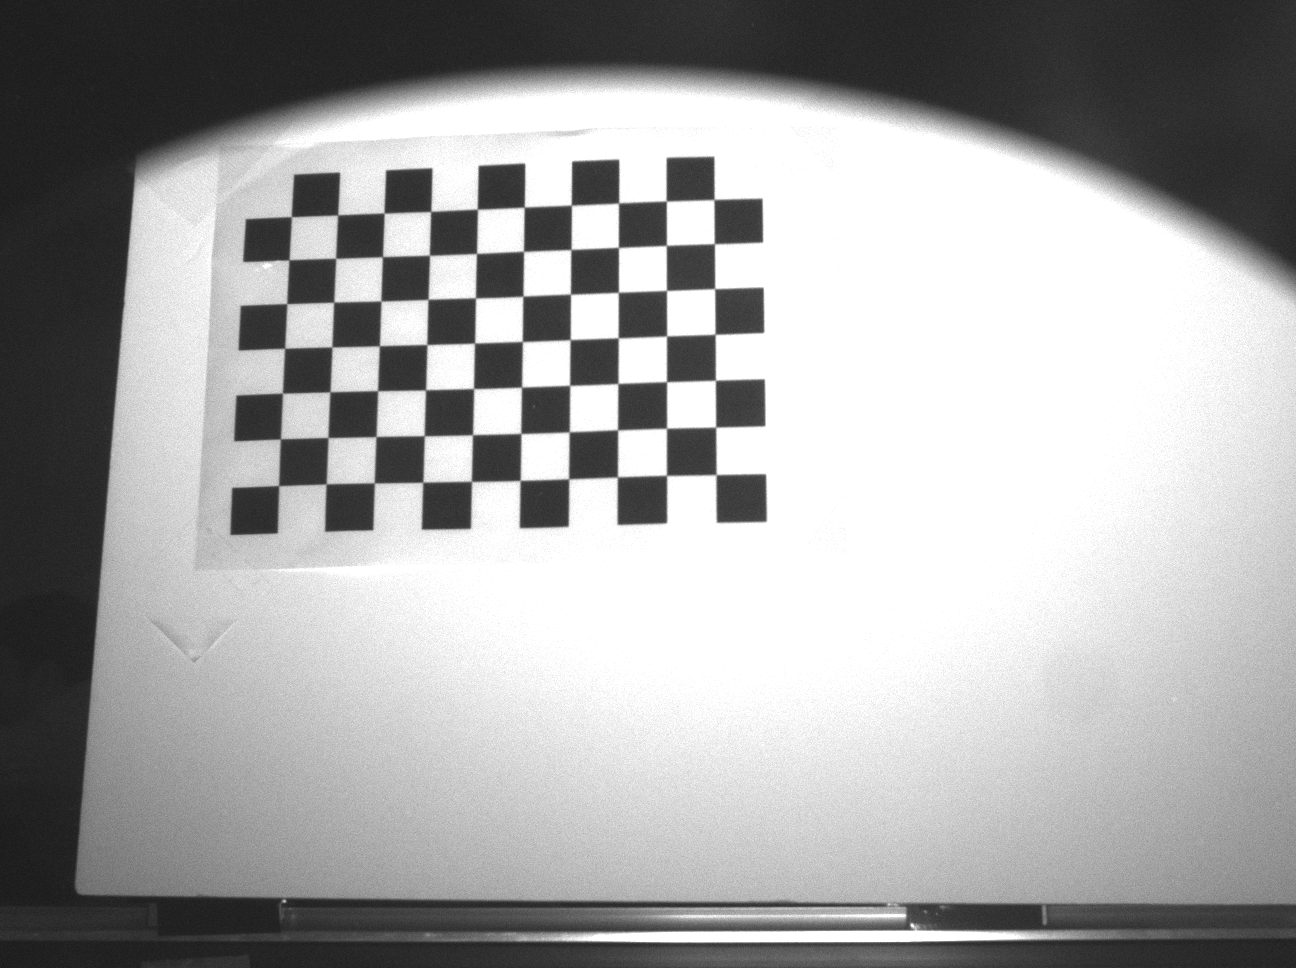
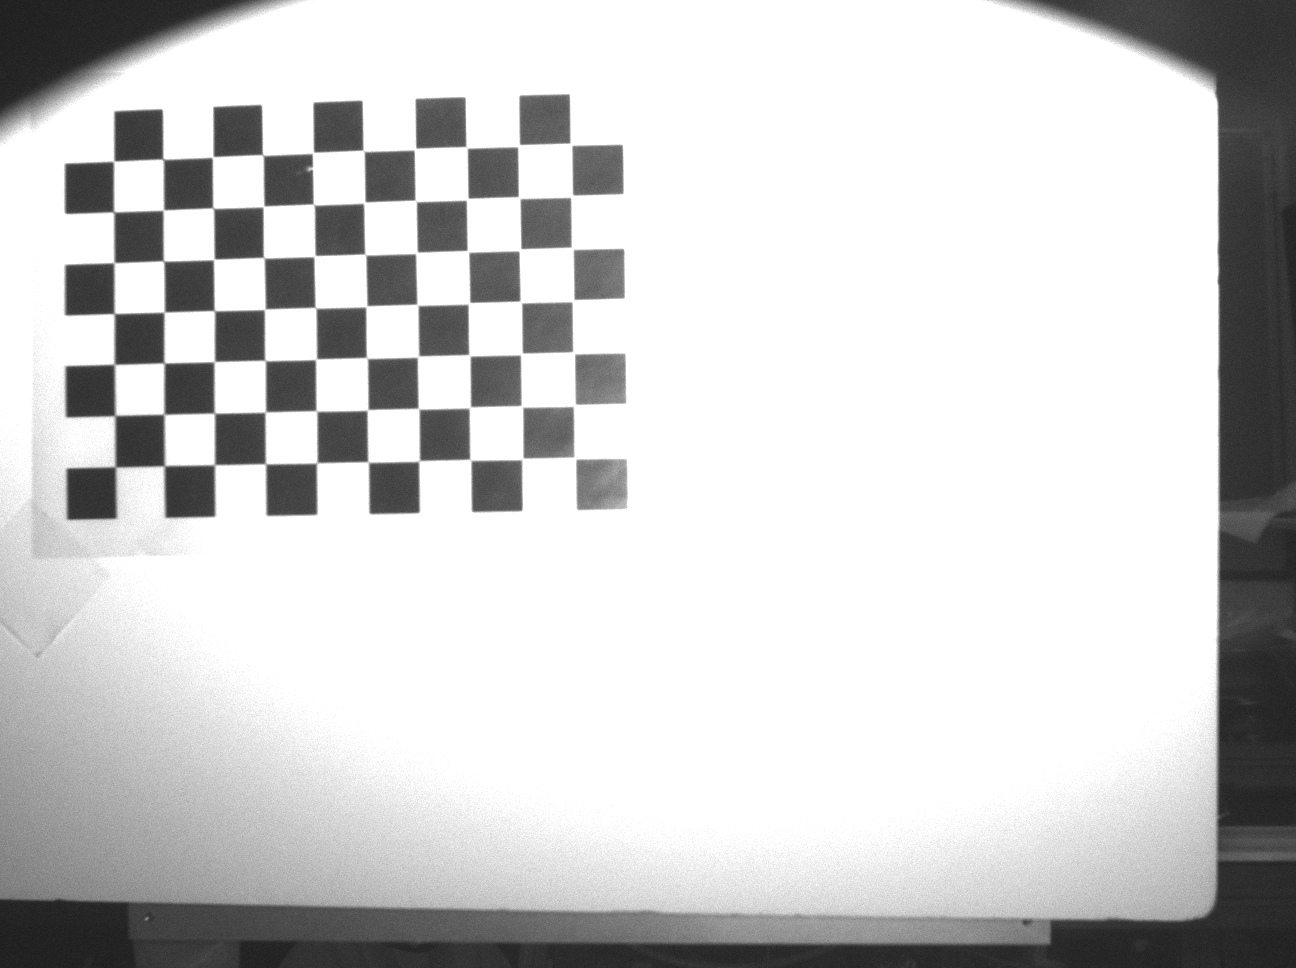
owari

diff --git a/HSVKit/main.cpp b/HSVKit/main.cpp
@@ -8,15 +8,15 @@
 
 //extern void mainloop();
 int main() {
-	mainloop();
+	//mainloop();
 	//calibrate(30, 1.0f, 1.0f, 7, 10,1296,968,2);
 
 
 
-	//Calibration calib;
-	//calib.Load_matrix("intrinsics_large_cam.xml", 1296, 968);
-	//calib.calibrate_projector(10, 7, 0.022f,true);
-	//calib.stereo_calibrate(10, 7, 0.022f);
+	Calibration calib;
+	calib.Load_matrix("intrinsics_large_cam.xml", 1296, 968);
+	//calib.calibrate_projector(10, 7, 0.022f,true,11);
+	calib.stereo_calibrate(10, 7, 0.022f);
 
 	
 	/*

diff --git a/HSVKit/common.h b/HSVKit/common.h
@@ -1,8 +1,8 @@
 #pragma once
 
 #pragma region flags
-//#define CAMERA
-//#define PROJECTOR
+#define CAMERA
+#define PROJECTOR
 #pragma endregion
 
 #ifdef _DEBUG
